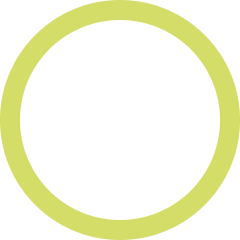
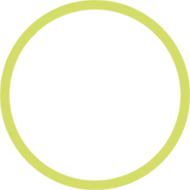
resolved all the landing page issues

Changed region(s): [[0.0263, 0.0, 0.9737, 1.0]]

diff --git a/Content/css/style.css b/Content/css/style.css
@@ -2884,7 +2884,7 @@ img {
     margin: auto;
     max-width: 1200px;
     background: #fff;
-    padding: 0px 0px 80px;
+    padding: 0px 0px 50px;
     margin-top: 0px;
     text-align: center
 }
@@ -2894,9 +2894,9 @@ img {
     }
 
     .umang-manage h2 {
-        font-size: 30px;
-        margin-bottom: 55px;
-        color: #222
+        font-size: 27px;
+        margin-bottom: 35px;
+        color: #5B2C54
     }
 
     .umang-manage p {
@@ -2949,7 +2949,7 @@ img {
 }
 
 .data3 {
-    background: #FFF2ED
+    background: #FCF4FB
 }
 
 .data1 h4 {
@@ -2961,20 +2961,20 @@ img {
 }
 
 .data3 h4 {
-    color: #E7602B
+    color: #5B2C54
 }
 
 .quick-message {
     margin: auto;
     max-width: 1100px;
-    padding: 50px 0;
+    padding: 30px 0 20px;
     display: flex;
     gap: 50px;
     align-items: center
 }
 
 .quick-info {
-    flex: 1
+    flex: 2
 }
 
     .quick-info h1 {
@@ -2994,8 +2994,8 @@ img {
 }
 
 .quick-info p {
-    font-size: 19px;
-    line-height: 30px;
+    font-size: 16px;
+    line-height: 28px;
     color: #414141;
     margin: 30px 0;
 }
@@ -3006,12 +3006,9 @@ img {
 }
 
     .quick-graphic img {
-        width: 50%;
+        width: 60%;
     }
 
-.girl-work {
-    margin-top: -40px
-}
 
 .woemn-confidence {
     margin-left: -60px;
@@ -3084,7 +3081,7 @@ img {
     }
 
 .objectives-content {
-    padding: 30px 0 40px;
+    padding: 0px 0 27px;
     margin: auto;
     max-width: 1100px;
     display: flex;
@@ -3123,7 +3120,7 @@ img {
     padding: 15px 25px;
     margin: 25px 0 !important;
     list-style: none;
-    font-size: 17px;
+    font-size: 16px;
     color: #000;
     position: relative;
     line-height: 27px;
@@ -3161,16 +3158,16 @@ img {
 }*/
 
 .video-testim {
-    padding: 90px 0;
+    padding: 60px 0;
     text-align: center;
     margin: auto;
     max-width: 1200px;
 }
 
     .video-testim h2 {
-        font-size: 45px;
+        font-size: 40px;
         margin-bottom: 80px;
-        color: #000;
+        color: #00AEC4;
         margin-top: 0px;
         text-align: left !important
     }
@@ -3214,7 +3211,7 @@ img {
 
 .vd1 h3 {
     background: #F9FEFF;
-    color: #00ADC3;
+    color: #5B2C54;
 }
 
 .vd2 h3 {
@@ -3229,8 +3226,8 @@ img {
 
 .video-round {
     float: left;
-    width: 70px;
-    height: 70px;
+    width: 60px;
+    height: 60px;
     border-radius: 100%;
     background: #00AEC4;
     margin-right: 30px;
@@ -3349,17 +3346,17 @@ img {
 }
 
 .impact-stat {
-    padding: 50px 0 60px;
+    padding: 40px 0 45px;
     margin: auto;
     max-width: 1200px;
     text-align: center;
 }
 
     .impact-stat h2 {
-        font-size: 50px;
-        color: #5B2C54;
+        font-size: 40px;
+        color: #00AEC4;
         margin-top: 5px;
-        margin-bottom: 30px;
+        margin-bottom: 23px;
     }
 
 .title-bg-center {
@@ -3374,8 +3371,8 @@ img {
 }
 
 .impact-stat p {
-    font-size: 19px;
-    line-height: 30px;
+    font-size: 16px;
+    line-height: 28px;
     color: #3F3E3A !important;
     margin: auto;
 }
@@ -3385,7 +3382,7 @@ img {
     margin: auto;
     max-width: 960px;
     gap: 30px;
-    margin-top: 50px;
+    margin-top: 30px;
     justify-content: space-around;
     align-items: center
 }
@@ -3403,23 +3400,23 @@ img {
     }
 
 .impact-flex h4 {
-    font-size: 21px;
+    font-size: 19px;
     color: #454545;
-    line-height: 30px;
+    line-height: 29px;
     padding: 0 10px
 }
 
 .impact-flex img {
     width: 80px;
-    margin-bottom: 10px
+    margin-bottom: 2px
 }
 
 .data-1, .data-2, .data-3 {
     display: block;
     margin: auto;
-    width: 200px;
-    height: 200px;
-    margin-bottom: 30px;
+    width: 160px;
+    height: 160px;
+    margin-bottom: 20px;
     -moz-transition: all 0.3s ease;
     -ms-transition: all 0.3s ease;
     -webkit-transition: all 0.3s ease;
@@ -3431,8 +3428,8 @@ img {
 }
 
 .data-2 {
-    width: 240px;
-    height: 240px;
+    width: 190px;
+    height: 190px;
     background: url('../images/umang-stat/green-strip.png') top center;
 }
 
@@ -3441,15 +3438,15 @@ img {
 }
 
     .data-1 h3, .data-3 h3 {
-        font-size: 50px;
+        font-size: 44px;
         font-weight: bold;
-        padding-top: 70px
+        padding-top: 57px
     }
 
 .data-2 h3 {
     font-size: 40px;
     font-weight: bold;
-    padding-top: 94px
+    padding-top: 75px
 }
 
 .data-1 h3 {
@@ -3461,7 +3458,7 @@ img {
 }
 
 .data-3 h3 {
-    color: #F3987A;
+    color: #5B2C54;
 }
 
 .lex {
@@ -3726,15 +3723,15 @@ img {
 }
 
     .partners h3 {
-        font-size: 35px;
-        color: #0090A3;
+        font-size: 27px;
+        color: #5B2C54;
         font-weight: 500;
         margin-bottom: 25px
     }
 
     .partners p {
         line-height: 26px;
-        font-size: 15px;
+        font-size: 16px;
     }
 
 .partner-list {
@@ -3765,8 +3762,10 @@ img {
         }
 
 .btn-more {
+    background: #F7F7F8;
     color: #00AEC4;
-    font-size: 16px;
+    padding: 4px 7px;
+    font-size: 14px;
     text-transform: uppercase;
     font-weight: 600;
     text-decoration: underline;
